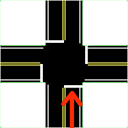
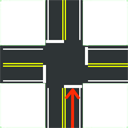
add turn right, turn left, through intersection.

diff --git a/UnityProject/Assets/Script/Location/LocationSystem.cs b/UnityProject/Assets/Script/Location/LocationSystem.cs
@@ -40,11 +40,33 @@ public class LocationSystem : MonoBehaviour
 		"LocationKey_AlongRiver"
 		, "LocationKey_Bridge"
 		, "LocationKey_CrossStreet"
-		, "LocationKey_Intersection"
+		
 		, "LocationKey_Pass"
 		, "LocationKey_RoundAbout"
+		
+		, "LocationKey_Intersection"
+		, "LocationKey_TurnLeft"
+		, "LocationKey_TurnRight"
+		, "LocationKey_ThroughInterception"		
 		, "LocationKey_Through"
 	} ;
+	
+	
+	string [] m_DefaultLocationKey = 
+	{ 
+		"AlongRiver" 
+		, "Bridge" 
+		, "CrossStreet"
+		, "Pass"
+		, "RoundAbout"
+		, "Intersection"
+		, "TurnLeft"
+		, "TurnRight"
+		, "ThroughInterception"
+		, "Through"
+		
+	} ;
+	
 	
 	int [] m_RemapTable = null ;
 	
@@ -361,20 +383,9 @@ public class LocationSystem : MonoBehaviour
 			return ;
 		}
 		
-		string [] locationKey = 
-		{ 
-			"AlongRiver" 
-			, "Bridge" 
-			, "CrossStreet"
-			, "Intersection"
-			, "Pass"
-			, "RoundAbout"
-			, "Through"
-		} ;
 		
-		
-		m_Keys = new string[ locationKey.Length ] ;
-		m_TargetPositions = new Vector3[ locationKey.Length ] ;
+		m_Keys = new string[ m_DefaultLocationKey.Length ] ;
+		m_TargetPositions = new Vector3[ m_DefaultLocationKey.Length ] ;
 		m_AnswerStrings = new string[ m_DescribeKey.Length ] ;
 		
 		m_RemapTable = new int[ m_AnswerStrings.Length ] ;
@@ -385,9 +396,9 @@ public class LocationSystem : MonoBehaviour
 				
 		ResetDescribeString() ;
 		
-		for( int i = 0 ; i < locationKey.Length ; ++i )
+		for( int i = 0 ; i < m_DefaultLocationKey.Length ; ++i )
 		{
-			m_Keys[ i ] = locationKey[ i ] ;
+			m_Keys[ i ] = m_DefaultLocationKey[ i ] ;
 			m_TargetPositions[ i ] = new Vector3( 0 , -70 * i ) ;
 			GameObject addObj = GameObject.Instantiate( prefab) as GameObject ;
 			if( null != addObj )
